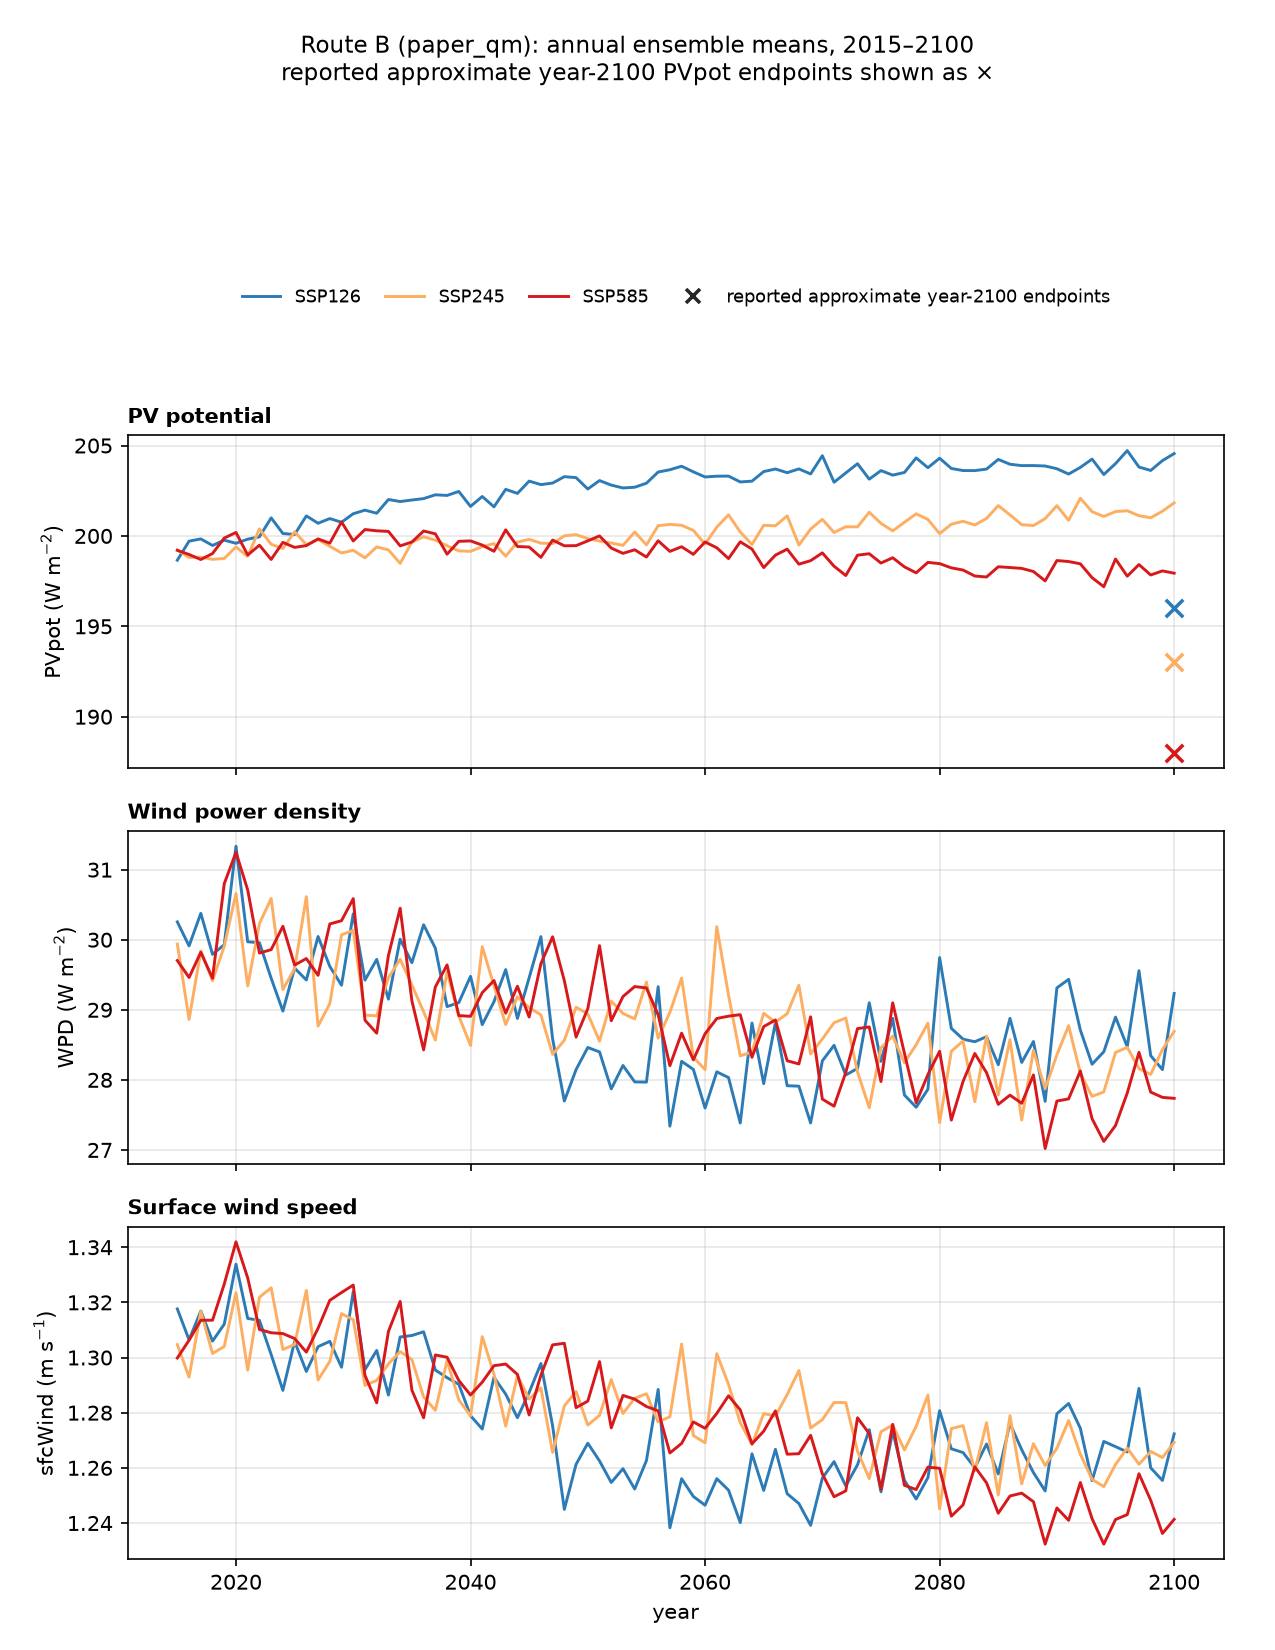
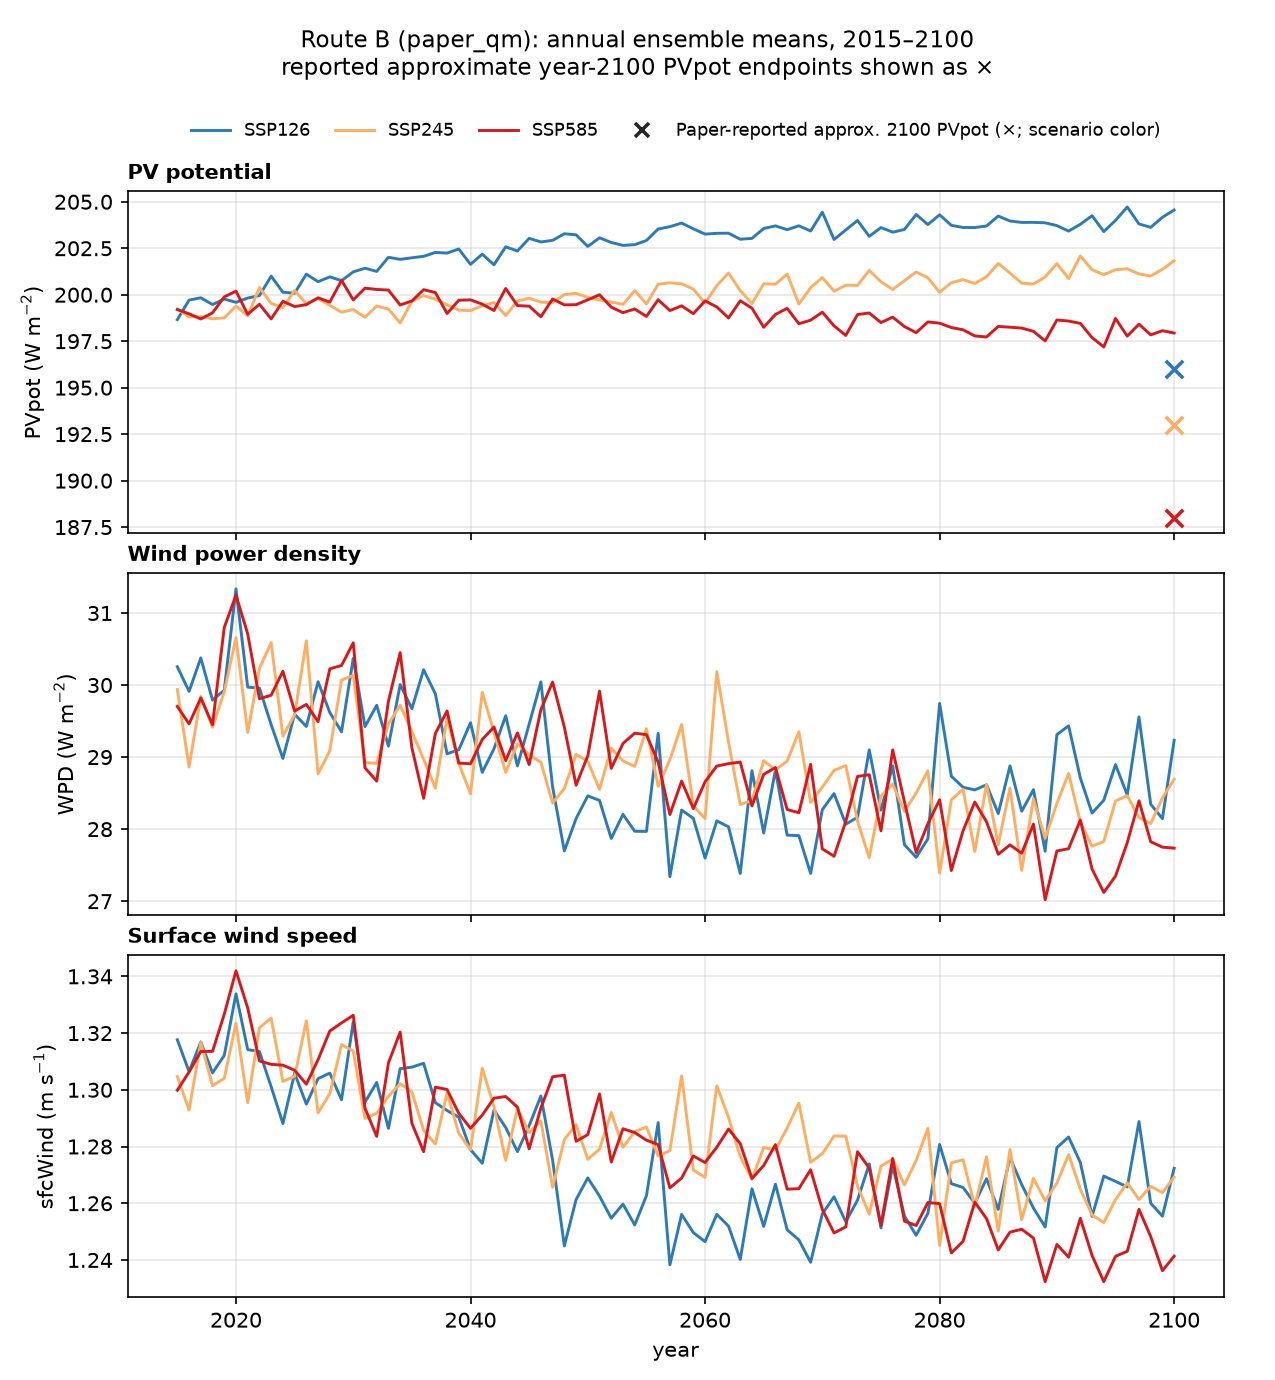
Tighten reproduction figure layout

diff --git a/scripts/08_reproduction_comparison/compare_with_paper.py b/scripts/08_reproduction_comparison/compare_with_paper.py
@@ -847,9 +847,9 @@ def plot_annual_series(df: pd.DataFrame) -> Path:
 
     # Dedicated top row for a figure-level legend (no in-axes legend, so nothing
     # overlaps the curves).  Suptitle sits above ``top``; the legend row is gs[0].
-    fig = plt.figure(figsize=(8.5, 11))
-    gs = GridSpec(4, 1, figure=fig, height_ratios=[0.45, 1, 1, 1], hspace=0.22,
-                  left=0.10, right=0.96, top=0.865, bottom=0.055)
+    fig = plt.figure(figsize=(8.5, 9.2))
+    gs = GridSpec(4, 1, figure=fig, height_ratios=[0.12, 1, 1, 1], hspace=0.15,
+                  left=0.10, right=0.96, top=0.92, bottom=0.06)
     leg_ax = fig.add_subplot(gs[0, 0])
     leg_ax.axis("off")
     ax0 = fig.add_subplot(gs[1, 0])
@@ -880,7 +880,7 @@ def plot_annual_series(df: pd.DataFrame) -> Path:
         Line2D([], [], color=colors["ssp245"], lw=1.4, label="SSP245"),
         Line2D([], [], color=colors["ssp585"], lw=1.4, label="SSP585"),
         Line2D([], [], marker="x", color="0.15", lw=0, ms=7, markeredgewidth=1.7,
-               label="reported approximate year-2100 endpoints"),
+               label="Paper-reported approx. 2100 PVpot (×; scenario color)"),
     ]
     leg_ax.legend(handles=handles, loc="center", ncol=4, fontsize=8.5,
                   frameon=False, handlelength=2.2, columnspacing=1.4, borderaxespad=0)
